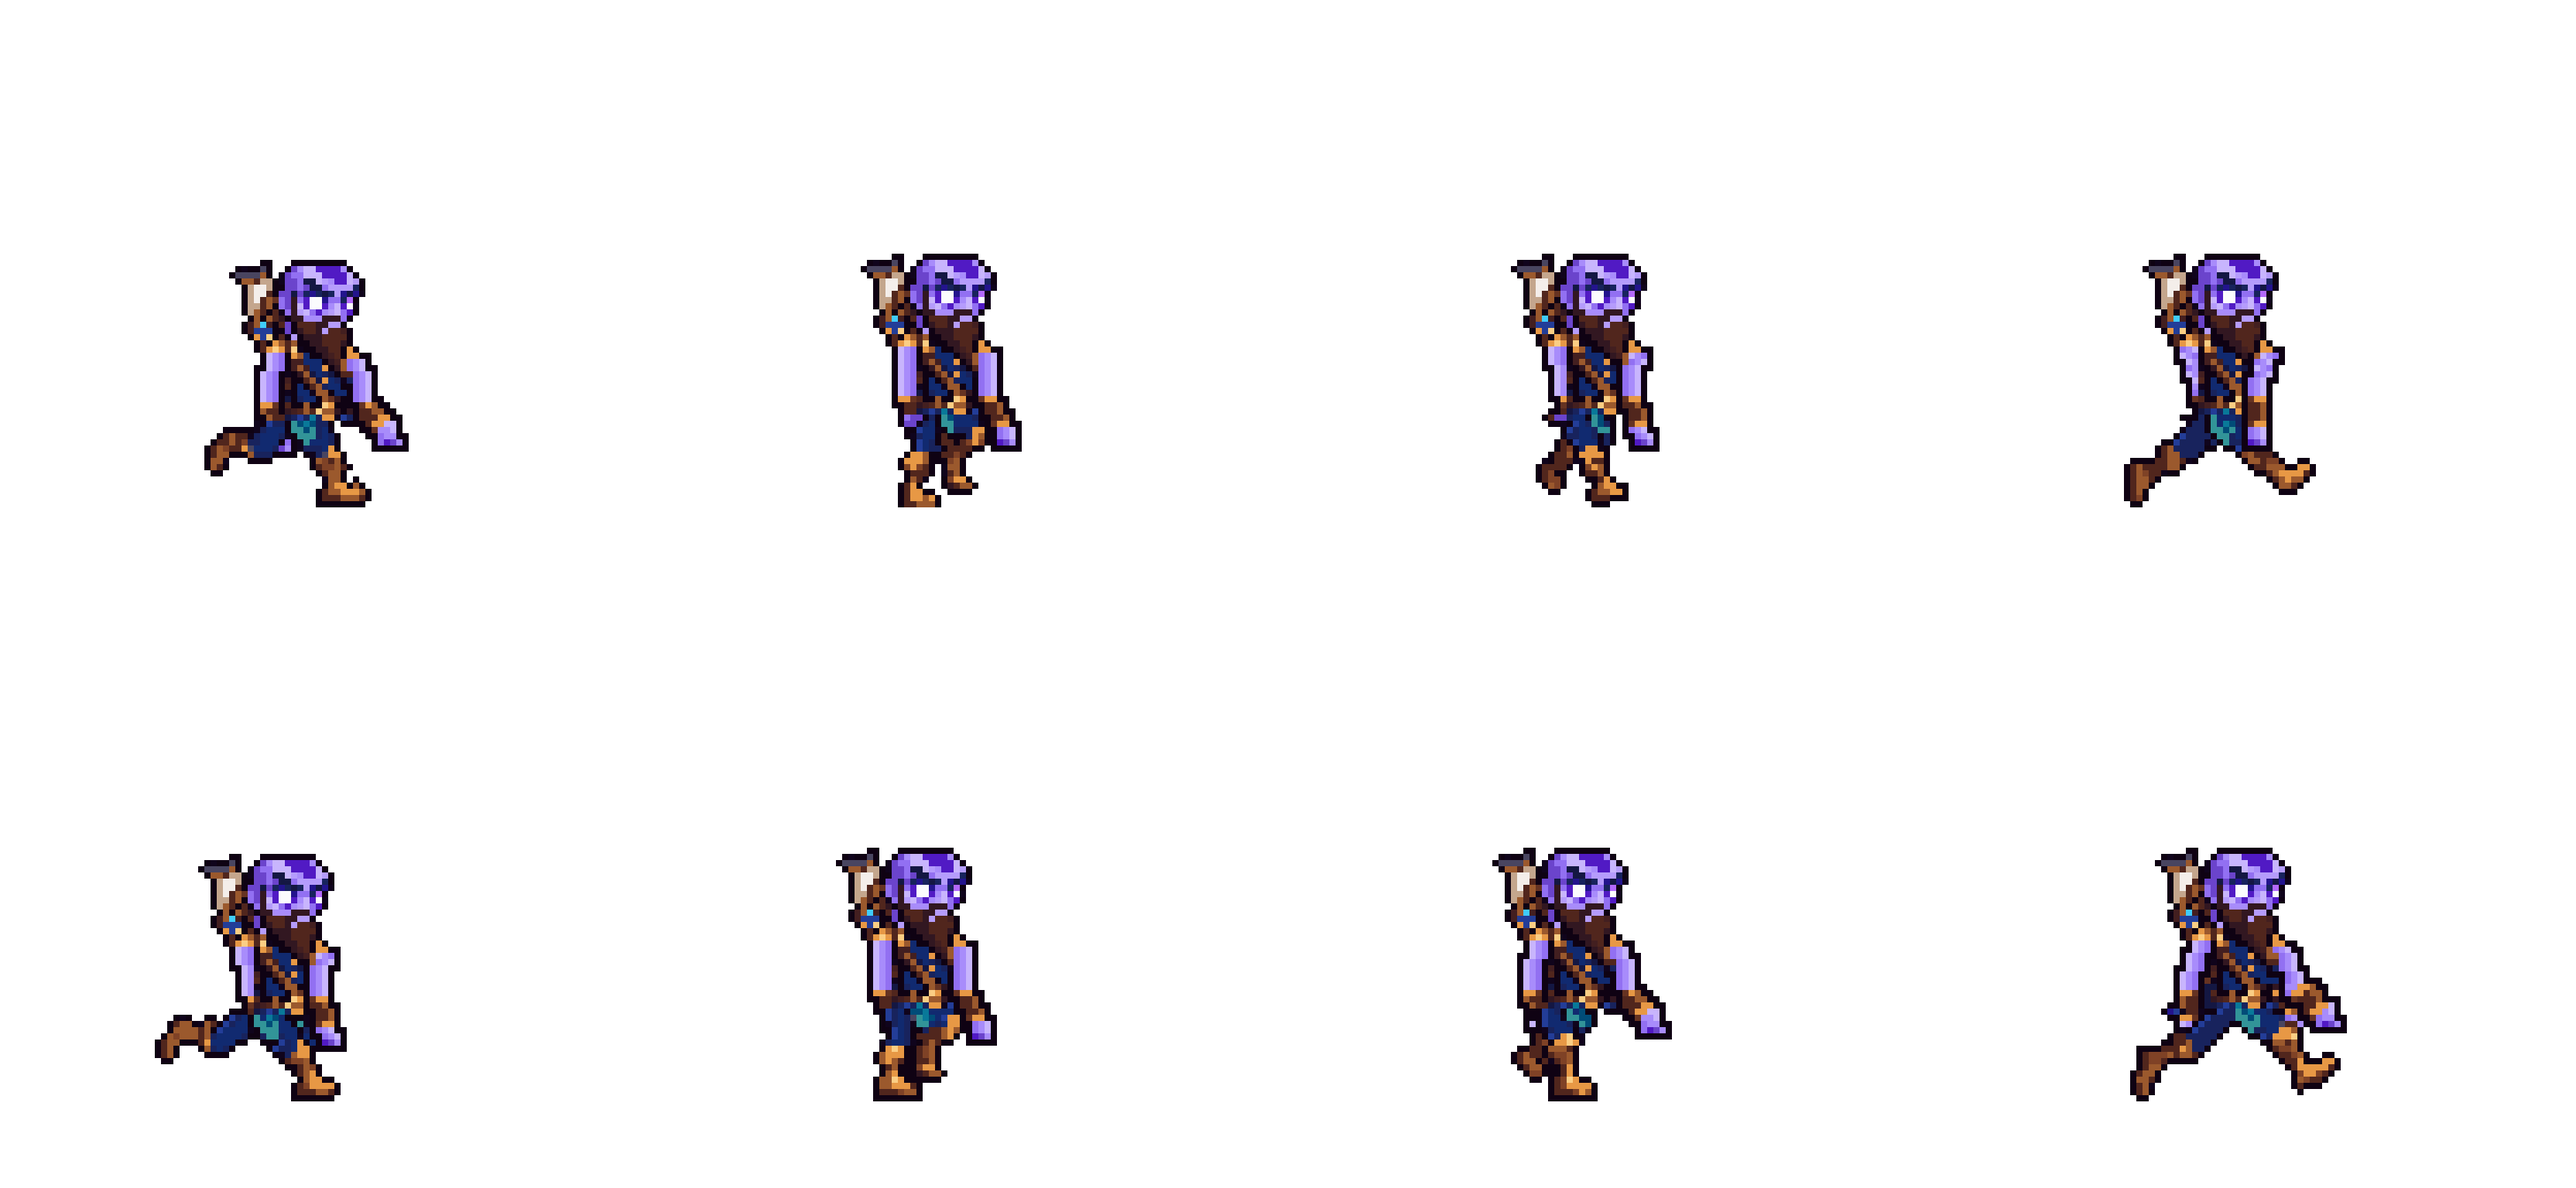
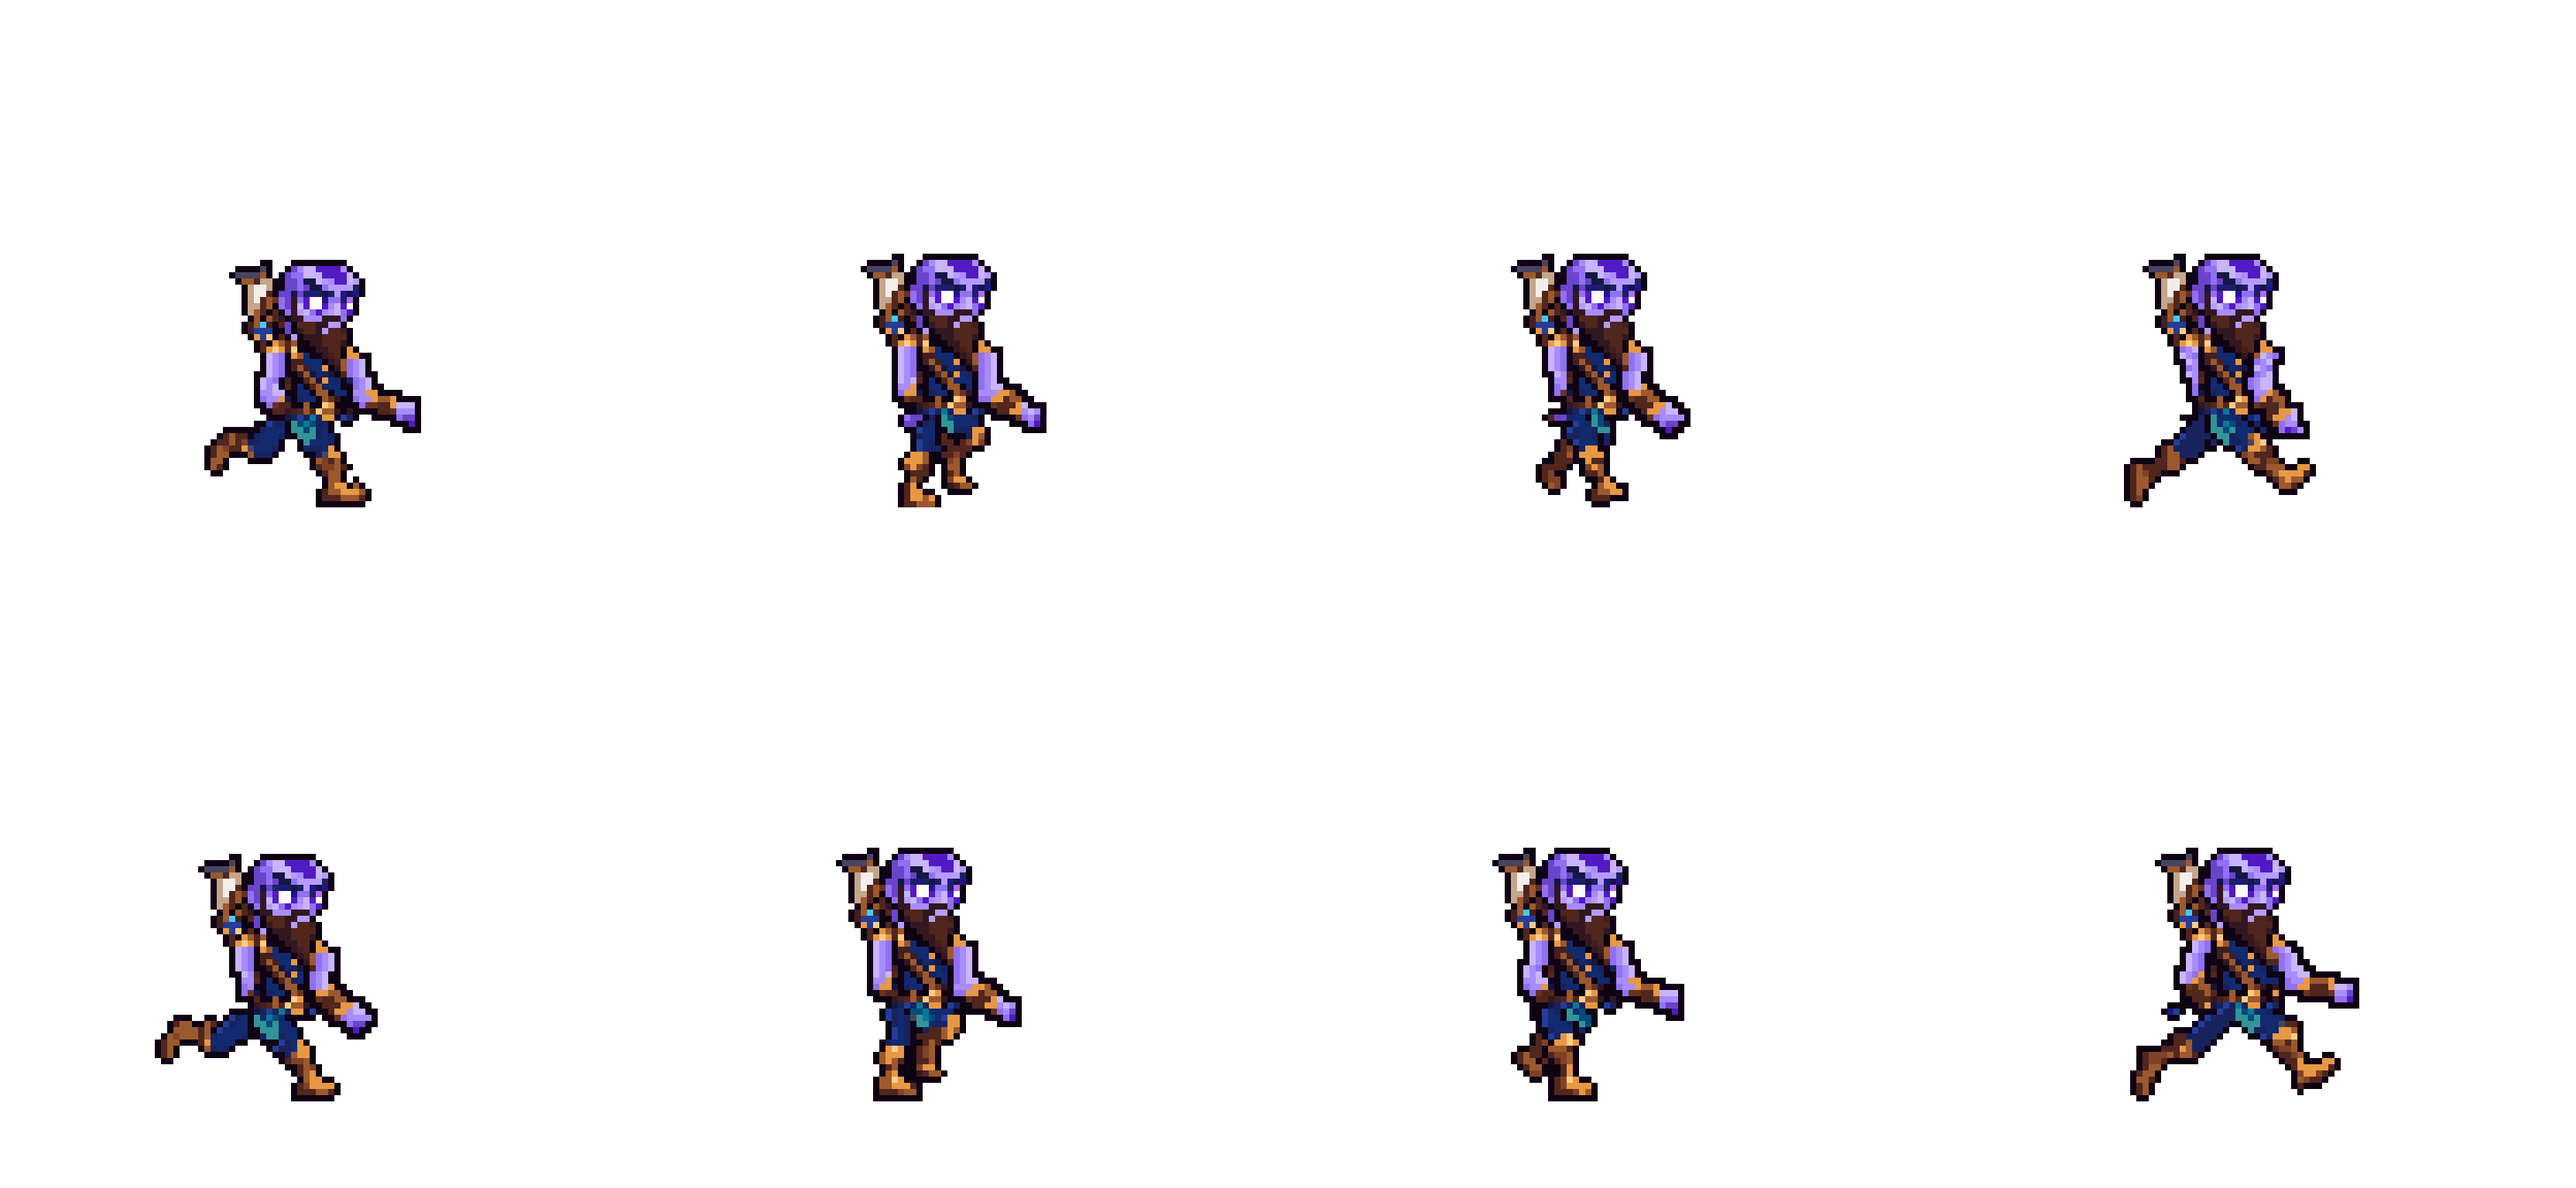
Ryze run: the elbows bent as he jogs (option B)
The user: 「瑞兹走路时手还是有点不自然」 - the swung arms hung nearly straight
and reached the knees like pendulums. SWING_DEG 18, ELBOW_DEG 60,
RUN_UPPER 7 (options now / B / C shown; B applied).

diff --git a/tools/art/fix_ryze_strips_v2.py b/tools/art/fix_ryze_strips_v2.py
@@ -102,9 +102,10 @@ TROUSERS = set("ozw")
 # the run's arms: Codex's broke into pieces over the body (the review: "arm fragments"); the idle's swung against
 # the legs instead - the near arm back as the near leg reaches forward (frames 4 and 8 the widest strides)
 RUN_SWING = {("run", k + 1): s for k, s in enumerate((0.5, 0.0, -0.5, -1.0, -0.5, 0.0, 0.5, 1.0))}
-SWING_DEG = 20
-ELBOW_DEG = 25
-RUN_UPPER = 8                                    # the upper arm's squares on the line (the idle's: shoulder to bracer)
+SWING_DEG = 18
+ELBOW_DEG = 60                                   # the elbows bent as he jogs (straighter they swung like pendulums
+                                                 # to the knees: 「瑞兹走路时手还是有点不自然」, the pick B)
+RUN_UPPER = 7                                    # the upper arm's squares on the line (to the elbow)
 # the boots of the legs swinging through in the run's passing frames (run_legs took rows out of the shins: the leg
 # ended at the knee band); {row from the pivot: (first column, squares)} in the idle's boot materials
 FEET = {("run", 2): {7: (0, "Dxx"), 8: (0, "rjhh")}, ("run", 6): {6: (-1, "Dxx"), 7: (-1, "rjhh")}}
